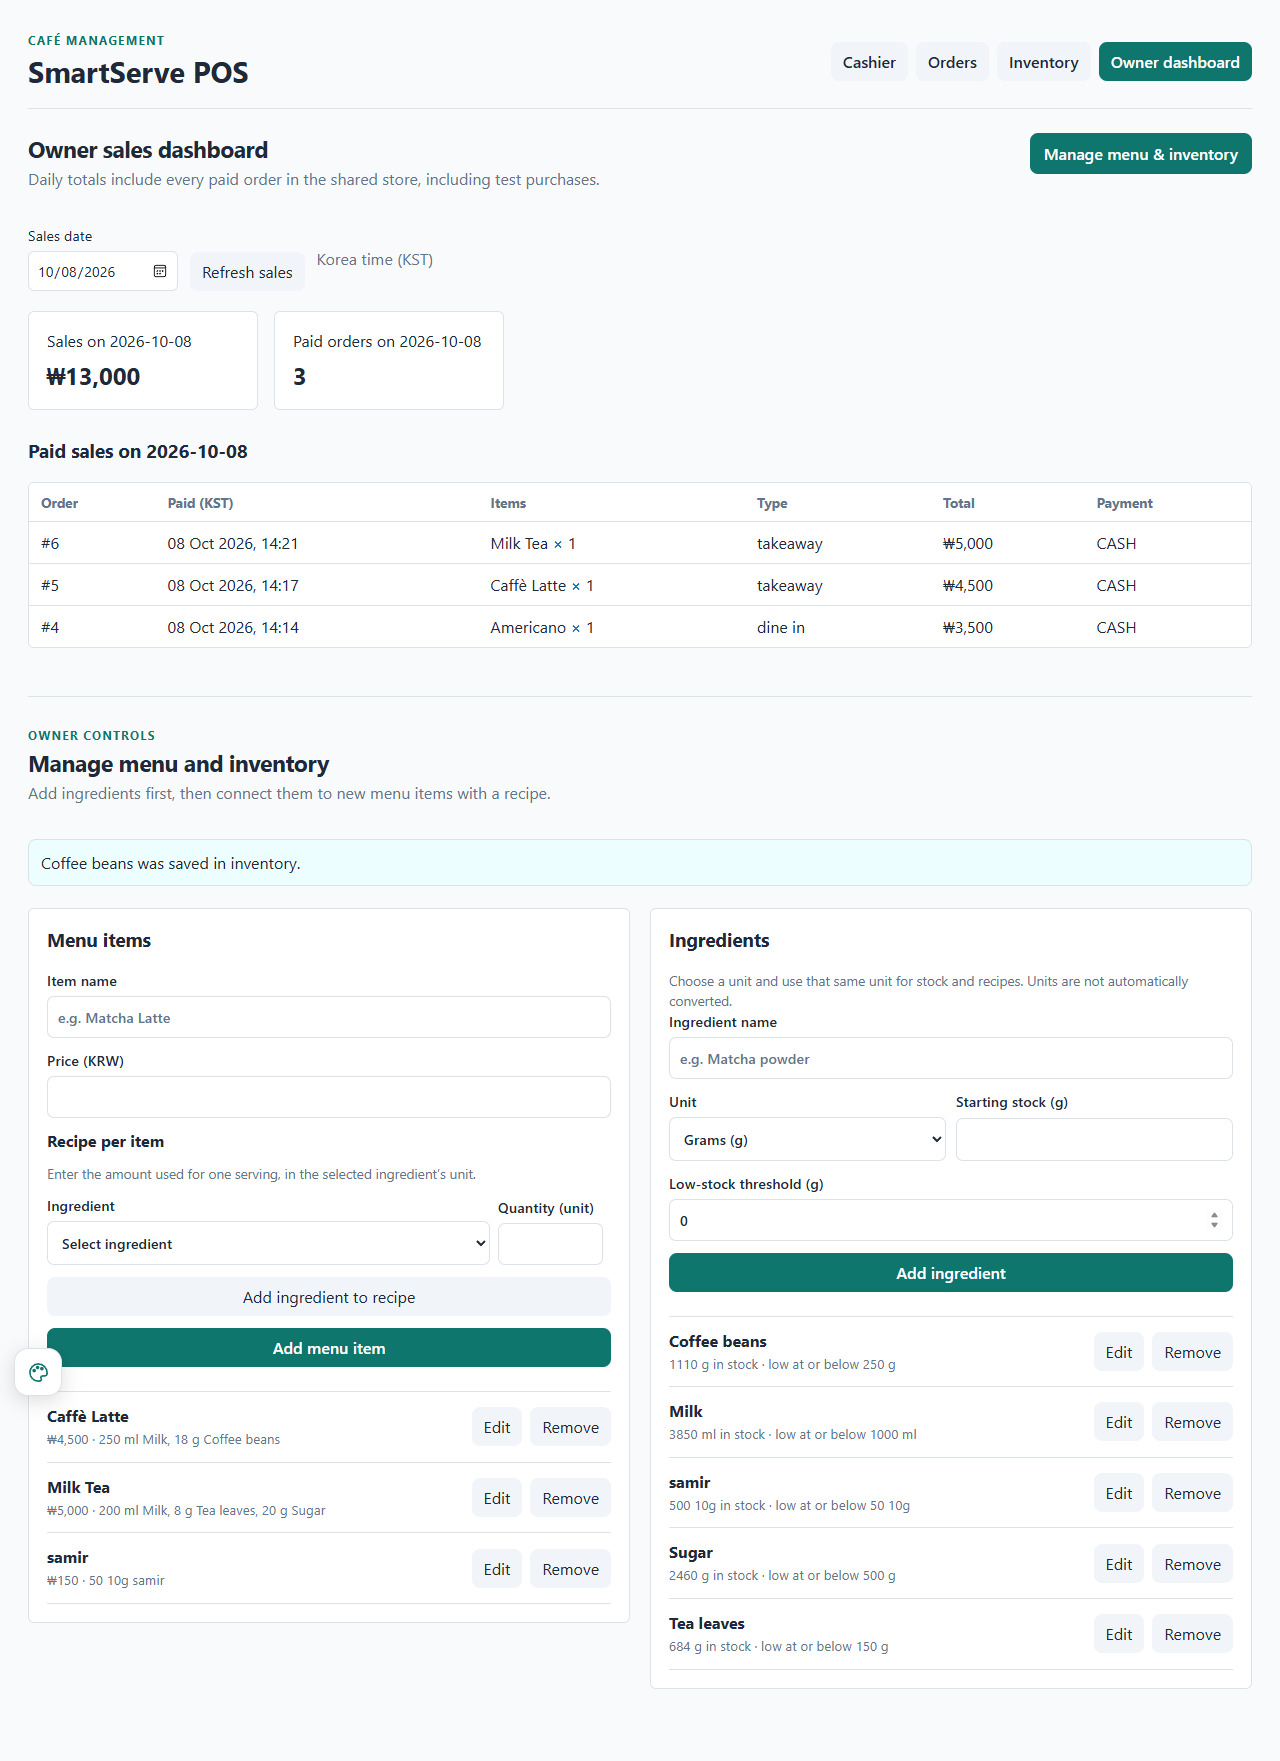
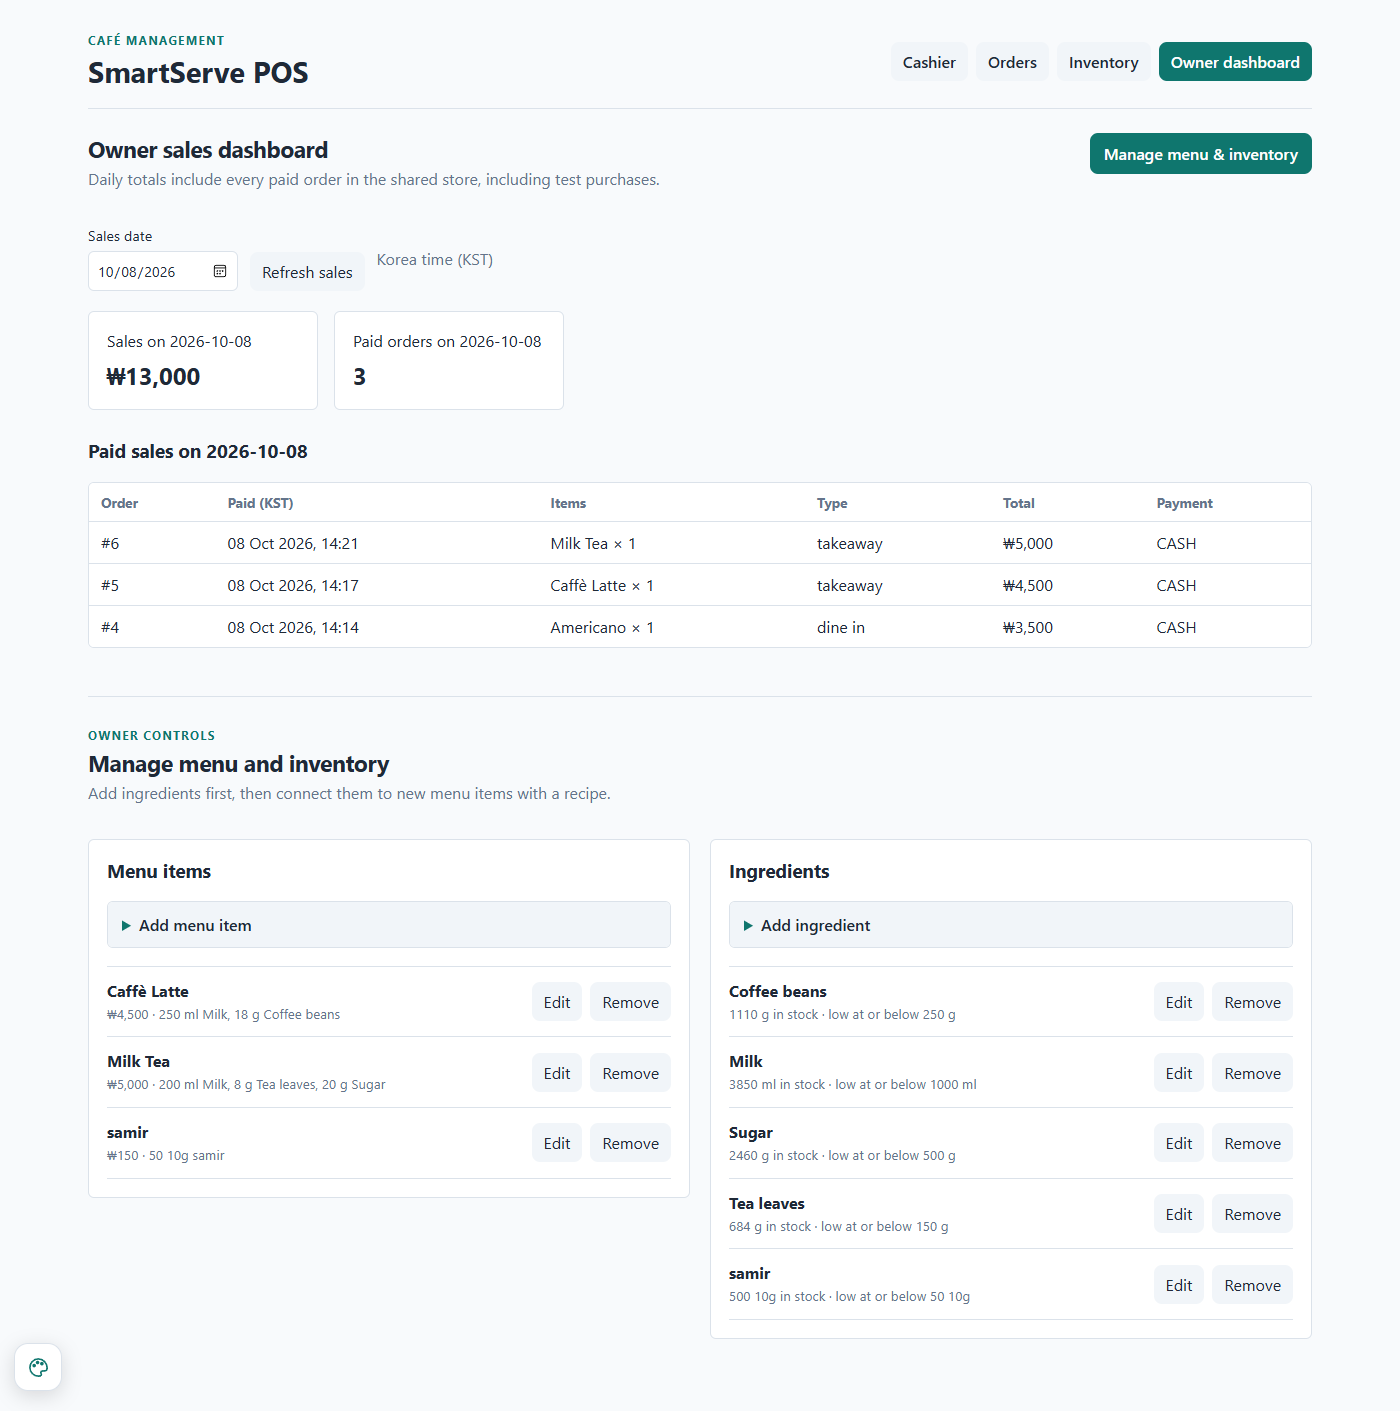
Fold owner add forms and expand them when editing

diff --git a/smartserve-pos/frontend/src/OwnerManagement.tsx b/smartserve-pos/frontend/src/OwnerManagement.tsx
@@ -24,10 +24,12 @@ export function OwnerManagement({ onMenuChanged, onInventoryChanged }: Props) {
   const [menuName, setMenuName] = useState("");
   const [price, setPrice] = useState("");
   const [recipe, setRecipe] = useState<RecipeInput[]>([{ ingredient_id: "", quantity: "" }]);
+  const [menuFormOpen, setMenuFormOpen] = useState(false);
+  const [ingredientFormOpen, setIngredientFormOpen] = useState(false);
   const [editingMenu, setEditingMenu] = useState<number | null>(null);
   const [editingIngredient, setEditingIngredient] = useState<number | null>(null);
-  const resetMenu = () => { setEditingMenu(null); setMenuName(""); setPrice(""); setRecipe([{ ingredient_id: "", quantity: "" }]); };
-  const resetIngredient = () => { setEditingIngredient(null); setIngredientName(""); setUnit("g"); setStock(""); setReorder("0"); };
+  const resetMenu = () => { setMenuFormOpen(false); setEditingMenu(null); setMenuName(""); setPrice(""); setRecipe([{ ingredient_id: "", quantity: "" }]); };
+  const resetIngredient = () => { setIngredientFormOpen(false); setEditingIngredient(null); setIngredientName(""); setUnit("g"); setStock(""); setReorder("0"); };
   const [busy, setBusy] = useState(false);
   const [message, setMessage] = useState("");
   const activeIngredients = ingredients.filter(item => item.active);
@@ -88,8 +90,8 @@ export function OwnerManagement({ onMenuChanged, onInventoryChanged }: Props) {
     <div className="section-heading"><div><p className="eyebrow">OWNER CONTROLS</p><h2>Manage menu and inventory</h2><p className="muted">Add ingredients first, then connect them to new menu items with a recipe.</p></div></div>
     {message && <p className="notice" role="status">{message}</p>}
     <div className="management-grid">
-      <article className="panel management-card"><h3>{editingMenu === null ? "Menu items" : "Edit menu item"}</h3><form onSubmit={addMenuItem} className="management-form"><label>Item name<input required maxLength={120} value={menuName} onChange={event => setMenuName(event.target.value)} placeholder="e.g. Matcha Latte" /></label><label>Price (KRW)<input required min="1" step="1" type="number" value={price} onChange={event => setPrice(event.target.value)} /></label><strong>Recipe per item</strong><p className="muted form-hint">Enter the amount used for one serving, in the selected ingredient’s unit.</p>{recipe.map((line, index) => <div className="recipe-row" key={index}><label>Ingredient<select required value={line.ingredient_id} onChange={event => setRecipe(current => current.map((entry, i) => i === index ? { ...entry, ingredient_id: event.target.value } : entry))}><option value="">Select ingredient</option>{activeIngredients.map(item => <option value={item.id} key={item.id}>{item.name} ({item.unit})</option>)}</select></label><label>Quantity ({ingredients.find(item => String(item.id) === line.ingredient_id)?.unit ?? "unit"})<input required min="0.01" step="0.01" type="number" value={line.quantity} onChange={event => setRecipe(current => current.map((entry, i) => i === index ? { ...entry, quantity: event.target.value } : entry))} /></label>{recipe.length > 1 && <button type="button" aria-label={`Remove recipe row ${index + 1}`} onClick={() => setRecipe(current => current.filter((_, i) => i !== index))}>×</button>}</div>)}<button type="button" onClick={() => setRecipe(current => [...current, { ingredient_id: "", quantity: "" }])}>Add ingredient to recipe</button><button className="primary" disabled={busy || activeIngredients.length === 0} type="submit">{editingMenu === null ? "Add menu item" : "Save menu item"}</button>{editingMenu !== null && <button type="button" disabled={busy} onClick={resetMenu}>Cancel editing menu</button>}</form><div className="management-list">{menu.filter(item => item.active).map(item => <div className="management-row" key={item.id}><div><strong>{item.name}</strong><small>{won(item.price)} · {item.recipe.map(line => `${line.quantity} ${ingredients.find(i => i.id === line.ingredient_id)?.unit ?? ""} ${line.ingredient_name}`).join(", ")}</small></div>{item.active ? <div className="row-actions"><button disabled={busy} onClick={() => { setEditingMenu(item.id); setMenuName(item.name); setPrice(String(item.price)); setRecipe(item.recipe.map(line => ({ ingredient_id: String(line.ingredient_id), quantity: String(line.quantity) }))); setMessage(""); document.getElementById("owner-management")?.scrollIntoView({ behavior: "smooth" }); }}>Edit</button><button disabled={busy || editingMenu === item.id} onClick={() => removeMenuItem(item)}>Remove</button></div> : <span className="badge cancelled">Removed</span>}</div>)}</div></article>
-      <article className="panel management-card"><h3>{editingIngredient === null ? "Ingredients" : "Edit ingredient"}</h3><p className="muted form-hint">Choose a unit and use that same unit for stock and recipes. Units are not automatically converted.</p><form onSubmit={addIngredient} className="management-form"><label>Ingredient name<input required maxLength={120} value={ingredientName} onChange={event => setIngredientName(event.target.value)} placeholder="e.g. Matcha powder" /></label><div className="form-pair"><label>Unit<select aria-label="Unit" value={unit} onChange={event => setUnit(event.target.value)}>{!["g", "kg", "ml", "l", "pcs"].includes(unit) && <option value={unit}>{unit}</option>}<option value="g">Grams (g)</option><option value="kg">Kilograms (kg)</option><option value="ml">Millilitres (ml)</option><option value="l">Litres (l)</option><option value="pcs">Pieces (pcs)</option></select></label><label>{editingIngredient === null ? "Starting stock" : "Current stock"} ({unit})<input required min="0" step="0.01" type="number" value={stock} onChange={event => setStock(event.target.value)} /></label></div><label>Low-stock threshold ({unit})<input required min="0" step="0.01" type="number" value={reorder} onChange={event => setReorder(event.target.value)} /></label><button className="primary" disabled={busy} type="submit">{editingIngredient === null ? "Add ingredient" : "Save ingredient"}</button>{editingIngredient !== null && <button type="button" disabled={busy} onClick={resetIngredient}>Cancel editing ingredient</button>}</form><div className="management-list">{activeIngredients.map(item => <div className="management-row" key={item.id}><div><strong>{item.name}</strong><small>{item.stock_quantity} {item.unit} in stock · low at or below {item.reorder_level} {item.unit}</small></div>{item.active ? <div className="row-actions"><button disabled={busy} onClick={() => { setEditingIngredient(item.id); setIngredientName(item.name); setUnit(item.unit); setStock(String(item.stock_quantity)); setReorder(String(item.reorder_level)); setMessage(""); document.getElementById("owner-management")?.scrollIntoView({ behavior: "smooth" }); }}>Edit</button><button disabled={busy || editingIngredient === item.id} onClick={() => removeIngredient(item)}>Remove</button></div> : <span className="badge cancelled">Removed</span>}</div>)}</div></article>
+      <article className="panel management-card"><h3>Menu items</h3><details className="management-disclosure" open={menuFormOpen} onToggle={event => setMenuFormOpen(event.currentTarget.open)}><summary>{editingMenu === null ? "Add menu item" : "Edit menu item"}</summary><form onSubmit={addMenuItem} className="management-form"><label>Item name<input required maxLength={120} value={menuName} onChange={event => setMenuName(event.target.value)} placeholder="e.g. Matcha Latte" /></label><label>Price (KRW)<input required min="1" step="1" type="number" value={price} onChange={event => setPrice(event.target.value)} /></label><strong>Recipe per item</strong><p className="muted form-hint">Enter the amount used for one serving, in the selected ingredient’s unit.</p>{recipe.map((line, index) => <div className="recipe-row" key={index}><label>Ingredient<select required value={line.ingredient_id} onChange={event => setRecipe(current => current.map((entry, i) => i === index ? { ...entry, ingredient_id: event.target.value } : entry))}><option value="">Select ingredient</option>{activeIngredients.map(item => <option value={item.id} key={item.id}>{item.name} ({item.unit})</option>)}</select></label><label>Quantity ({ingredients.find(item => String(item.id) === line.ingredient_id)?.unit ?? "unit"})<input required min="0.01" step="0.01" type="number" value={line.quantity} onChange={event => setRecipe(current => current.map((entry, i) => i === index ? { ...entry, quantity: event.target.value } : entry))} /></label>{recipe.length > 1 && <button type="button" aria-label={`Remove recipe row ${index + 1}`} onClick={() => setRecipe(current => current.filter((_, i) => i !== index))}>×</button>}</div>)}<button type="button" onClick={() => setRecipe(current => [...current, { ingredient_id: "", quantity: "" }])}>Add ingredient to recipe</button><button className="primary" disabled={busy || activeIngredients.length === 0} type="submit">{editingMenu === null ? "Add menu item" : "Save menu item"}</button>{editingMenu !== null && <button type="button" disabled={busy} onClick={resetMenu}>Cancel editing menu</button>}</form></details><div className="management-list">{menu.filter(item => item.active).map(item => <div className="management-row" key={item.id}><div><strong>{item.name}</strong><small>{won(item.price)} · {item.recipe.map(line => `${line.quantity} ${ingredients.find(i => i.id === line.ingredient_id)?.unit ?? ""} ${line.ingredient_name}`).join(", ")}</small></div>{item.active ? <div className="row-actions"><button disabled={busy} onClick={() => { setMenuFormOpen(true); setEditingMenu(item.id); setMenuName(item.name); setPrice(String(item.price)); setRecipe(item.recipe.map(line => ({ ingredient_id: String(line.ingredient_id), quantity: String(line.quantity) }))); setMessage(""); document.getElementById("owner-management")?.scrollIntoView({ behavior: "smooth" }); }}>Edit</button><button disabled={busy || editingMenu === item.id} onClick={() => removeMenuItem(item)}>Remove</button></div> : <span className="badge cancelled">Removed</span>}</div>)}</div></article>
+      <article className="panel management-card"><h3>Ingredients</h3><details className="management-disclosure" open={ingredientFormOpen} onToggle={event => setIngredientFormOpen(event.currentTarget.open)}><summary>{editingIngredient === null ? "Add ingredient" : "Edit ingredient"}</summary><p className="muted form-hint">Choose a unit and use that same unit for stock and recipes. Units are not automatically converted.</p><form onSubmit={addIngredient} className="management-form"><label>Ingredient name<input required maxLength={120} value={ingredientName} onChange={event => setIngredientName(event.target.value)} placeholder="e.g. Matcha powder" /></label><div className="form-pair"><label>Unit<select aria-label="Unit" value={unit} onChange={event => setUnit(event.target.value)}>{!["g", "kg", "ml", "l", "pcs"].includes(unit) && <option value={unit}>{unit}</option>}<option value="g">Grams (g)</option><option value="kg">Kilograms (kg)</option><option value="ml">Millilitres (ml)</option><option value="l">Litres (l)</option><option value="pcs">Pieces (pcs)</option></select></label><label>{editingIngredient === null ? "Starting stock" : "Current stock"} ({unit})<input required min="0" step="0.01" type="number" value={stock} onChange={event => setStock(event.target.value)} /></label></div><label>Low-stock threshold ({unit})<input required min="0" step="0.01" type="number" value={reorder} onChange={event => setReorder(event.target.value)} /></label><button className="primary" disabled={busy} type="submit">{editingIngredient === null ? "Add ingredient" : "Save ingredient"}</button>{editingIngredient !== null && <button type="button" disabled={busy} onClick={resetIngredient}>Cancel editing ingredient</button>}</form></details><div className="management-list">{activeIngredients.map(item => <div className="management-row" key={item.id}><div><strong>{item.name}</strong><small>{item.stock_quantity} {item.unit} in stock · low at or below {item.reorder_level} {item.unit}</small></div>{item.active ? <div className="row-actions"><button disabled={busy} onClick={() => { setIngredientFormOpen(true); setEditingIngredient(item.id); setIngredientName(item.name); setUnit(item.unit); setStock(String(item.stock_quantity)); setReorder(String(item.reorder_level)); setMessage(""); document.getElementById("owner-management")?.scrollIntoView({ behavior: "smooth" }); }}>Edit</button><button disabled={busy || editingIngredient === item.id} onClick={() => removeIngredient(item)}>Remove</button></div> : <span className="badge cancelled">Removed</span>}</div>)}</div></article>
     </div>
   </section>;
 }

diff --git a/smartserve-pos/frontend/src/styles.css b/smartserve-pos/frontend/src/styles.css
@@ -148,3 +148,10 @@ button:focus-visible, select:focus-visible, input:focus-visible, a:focus-visible
 .app-shell header { margin-bottom: 24px; }
 th, td { padding: 10px 12px; }
 .month-folder summary { padding: 14px 16px; }
+
+.management-disclosure { margin-bottom: 18px; border: 1px solid var(--border); border-radius: 6px; overflow: hidden; }
+.management-disclosure summary { padding: 12px 14px; cursor: pointer; font-weight: 600; color: var(--text); background: var(--surface-soft); }
+.management-disclosure summary::marker { color: var(--accent); }
+.management-disclosure summary:focus-visible { outline: 2px solid var(--accent); outline-offset: -3px; }
+.management-disclosure .management-form { padding: 14px; margin-bottom: 0; }
+.management-disclosure > .form-hint { padding: 14px 14px 0; margin-bottom: 0; }

diff --git a/smartserve-pos/README.md b/smartserve-pos/README.md
@@ -109,3 +109,5 @@ Payments and stock are sample/simulated data. Real gateways, enforced user roles
 ### Editing existing items
 
 In Owner dashboard, select Edit beside a menu item or ingredient. Change the prefilled values and select Save, or Cancel editing to discard the draft. Menu fields include name, price and recipe; ingredient fields include name, current stock, threshold and unit. Stock changes set the current balance directly. Saved orders keep their original unit prices. Pay or cancel open orders before changing a recipe. Units already used in recipes or stock history cannot be changed; create a new ingredient for a different unit.
+
+The Add menu item and Add ingredient sections start collapsed. Click their headers to expand or collapse each form. Existing lists stay visible. Edit opens the relevant form; successful saving or cancelling editing closes it. Folding a form retains its draft until saved or cancelled.

diff --git a/docs/online/latest-checks.md b/docs/online/latest-checks.md
@@ -22,3 +22,5 @@ docker compose -p smartserve-week5-check exec -T web npm run build
 ```
 
 Payments are simulated. The public link requires the host PC, Docker services, proxy, and tunnel to remain running. Automated checks do not replace a teammate's independent setup and review.
+
+- Collapsible owner forms: PASS in the public browser; both start folded, headers toggle forms, Edit opens prefilled values, Cancel closes, and the mobile layout fits. No records were changed by this check.
